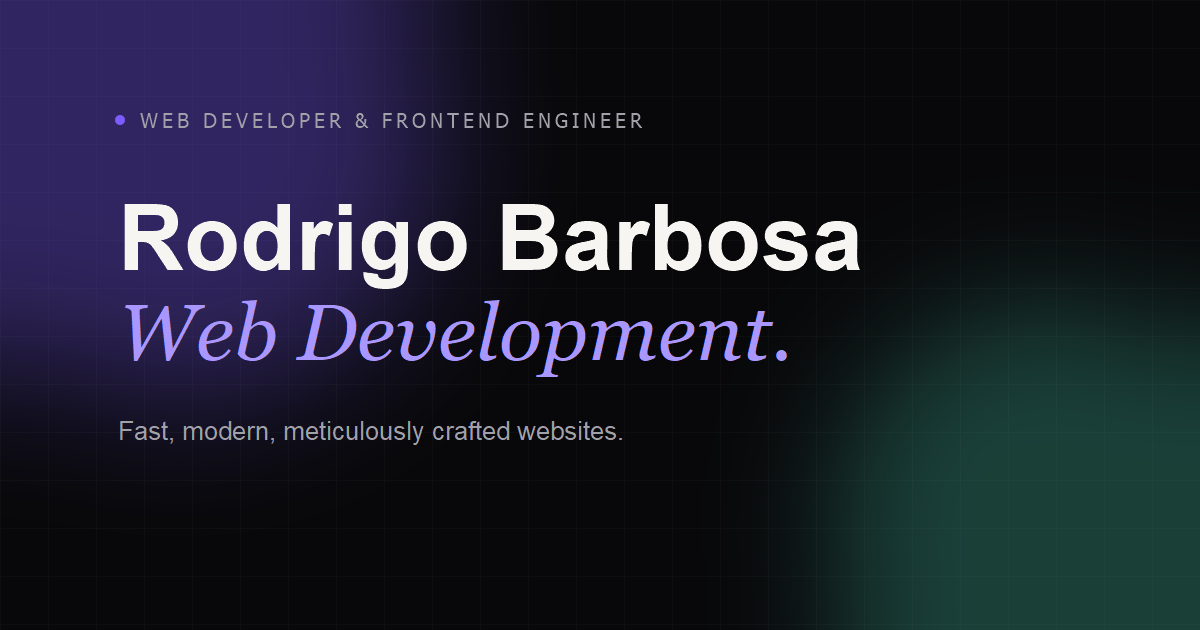
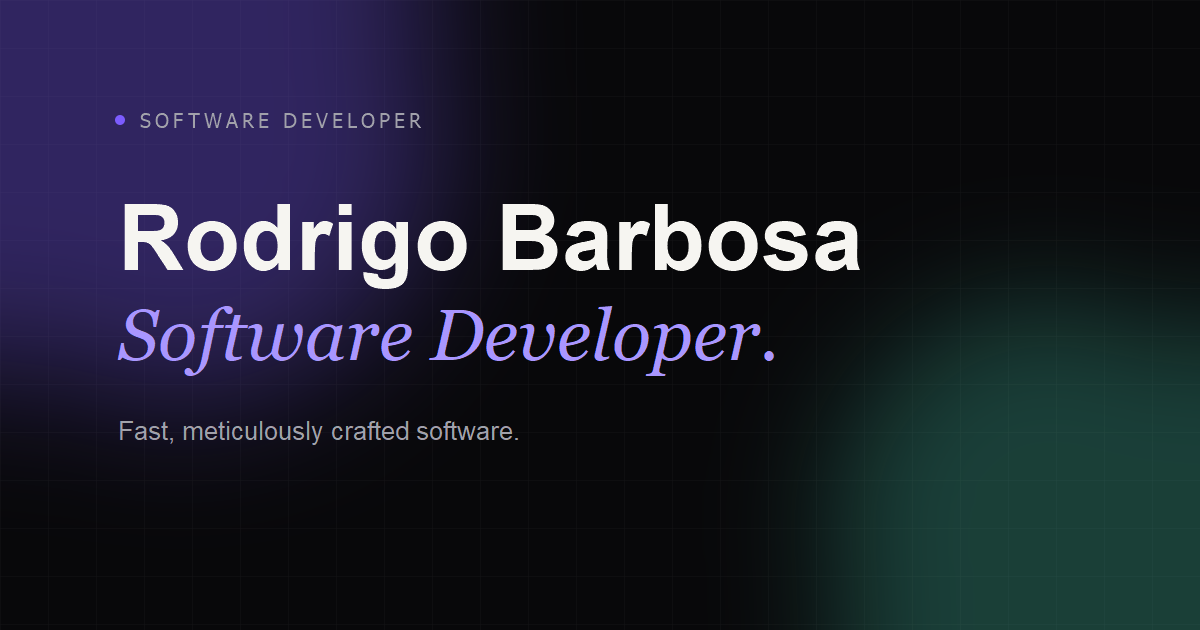
Reposition as Software Developer, add email quick-actions
The brand identity was too narrowly framed as "Web Development" —
updated the core positioning site-wide (Hero, meta title/description,
JSON-LD, About, OG image) to "Software Developer", since the
portfolio isn't meant to be limited to web work and the two web
projects shown are only part of what's being built.

- Hero, site title, and metadata now lead with "Software Developer";
  supporting copy frames web work as the current visible output, not
  the ceiling.
- About page now states plainly that Rodrigo is a software developer
  studying Computer Engineering.
- Added an EmailButton (mirrors WhatsAppButton) in the navbar next to
  the WhatsApp button, and in the Hero CTA row, so email has the same
  one-click prominence WhatsApp already had.
- Softened "website"-exclusive phrasing in Contact/Journal copy to
  "project"/"software" where it was making an identity claim rather
  than describing the actual case studies.

Changed region(s): [[0.0925, 0.4825, 0.6783, 0.6032], [0.1542, 0.6635, 0.5242, 0.7238], [0.1233, 0.181, 0.555, 0.2111]]

diff --git a/src/components/sections/Hero.tsx b/src/components/sections/Hero.tsx
@@ -7,6 +7,7 @@ import gsap from "gsap";
 import { RevealText } from "@/components/ui/RevealText";
 import { MagneticButton } from "@/components/ui/MagneticButton";
 import { WhatsAppButton } from "@/components/ui/WhatsAppButton";
+import { EmailButton } from "@/components/ui/EmailButton";
 import { GridNoiseBackground } from "@/components/ui/GridNoiseBackground";
 import { GlowOrb } from "@/components/ui/GlowOrb";
 
@@ -60,13 +61,13 @@ export function Hero() {
             className="mb-6 flex items-center gap-3 font-mono text-xs uppercase tracking-[0.2em] text-fg-subtle"
           >
             <span className="h-1.5 w-1.5 rounded-full bg-accent" />
-            Web Developer &amp; Frontend Engineer
+            Software Developer
           </motion.div>
 
           <h1 className="text-[13vw] font-medium leading-[0.98] tracking-tight sm:text-6xl md:text-7xl lg:text-[5.2rem]">
             <RevealText text="Rodrigo Barbosa" as="span" className="block text-fg" delay={0.25} />
             <RevealText
-              text="Web Development."
+              text="Software Developer."
               as="span"
               className="font-display block italic text-accent-soft"
               delay={0.55}
@@ -78,8 +79,7 @@ export function Hero() {
             transition={{ duration: 0.7, ease: [0.16, 1, 0.3, 1], delay: 1.1 }}
             className="mt-7 max-w-xl text-lg text-fg md:text-xl"
           >
-            I design and build fast, meticulously crafted websites that make brands look bigger —
-            and turn visitors into clients.
+            I build software with the same care most people only spend on the parts you can see.
           </motion.p>
 
           <motion.p
@@ -87,9 +87,8 @@ export function Hero() {
             transition={{ duration: 0.7, ease: [0.16, 1, 0.3, 1], delay: 1.25 }}
             className="mt-4 max-w-lg text-balance text-fg-muted"
           >
-            I help businesses, local brands, and personal brands stand out with modern,
-            high-performance websites, built with the same attention to detail you can see right
-            here.
+            Right now that shows up as fast, considered websites — but the same standard carries
+            into everything else I build, developer tools included.
           </motion.p>
 
           <motion.div
@@ -101,6 +100,7 @@ export function Hero() {
               View Work
             </MagneticButton>
             <WhatsAppButton label="Chat on WhatsApp" variant="secondary" />
+            <EmailButton label="Send Email" variant="secondary" />
           </motion.div>
         </div>
 
@@ -128,7 +128,7 @@ export function Hero() {
               <div className="absolute inset-6 rounded-[2.5rem] border border-border-strong/60 backdrop-blur-[1px]" />
               <Image
                 src="/images/rodrigo-barbosa.png"
-                alt="Portrait of Rodrigo Barbosa, Web Developer and Frontend Engineer"
+                alt="Portrait of Rodrigo Barbosa, Software Developer"
                 fill
                 priority
                 sizes="(max-width: 1024px) 60vw, 32vw"

diff --git a/src/app/about/page.tsx b/src/app/about/page.tsx
@@ -10,7 +10,7 @@ import { siteConfig } from "@/lib/site-config";
 export const metadata: Metadata = {
   title: "About",
   description:
-    "Frontend engineer focused on React, Next.js, and TypeScript — how I think, what I value, and why two projects are only the floor.",
+    "Software developer studying Computer Engineering — how I think, what I value, and why two web projects are only the floor.",
   alternates: {
     canonical: `${siteConfig.url}/about`,
   },
@@ -64,6 +64,10 @@ export default function AboutPage() {
               client it&apos;s for — not assembled from a template. What you&apos;ve seen so far
               is a floor, not a ceiling.
             </p>
+            <p className="mt-4 max-w-2xl text-lg text-fg-muted md:text-xl">
+              I&apos;m a software developer, currently studying Computer Engineering. Web is where
+              most of my published work lives right now — it&apos;s not the limit of what I build.
+            </p>
           </div>
         </section>
 
@@ -115,10 +119,10 @@ export default function AboutPage() {
         <section className="relative overflow-hidden border-t border-border py-24 md:py-32">
           <div className="container-premium flex flex-col items-center text-center">
             <h2 className="max-w-xl text-3xl font-medium leading-tight text-fg md:text-4xl">
-              If any of this sounds like the way you&apos;d want your site built —
+              If any of this sounds like the way you&apos;d want something built —
             </h2>
             <div className="mt-8">
-              <WhatsAppButton label="Let's Talk" message="Hi Rodrigo, I read your About page and I'd like to talk about a website project." />
+              <WhatsAppButton label="Let's Talk" message="Hi Rodrigo, I read your About page and I'd like to talk about a project." />
             </div>
           </div>
         </section>

diff --git a/src/lib/site-config.ts b/src/lib/site-config.ts
@@ -1,12 +1,12 @@
 const whatsappNumber = "351914220304";
 const whatsappDefaultMessage =
-  "Hi Rodrigo, I found your portfolio and I'd like to talk about a website project.";
+  "Hi Rodrigo, I found your portfolio and I'd like to talk about a project.";
 
 export const siteConfig = {
   name: "Rodrigo Barbosa",
-  title: "Rodrigo Barbosa — Web Development",
+  title: "Rodrigo Barbosa — Software Developer",
   description:
-    "Rodrigo Barbosa is a Web Developer & Frontend Engineer building fast, modern, meticulously crafted websites for brands that refuse to look ordinary.",
+    "Rodrigo Barbosa is a Software Developer building fast, meticulously crafted software — from websites to the developer tools behind them.",
   url: process.env.NEXT_PUBLIC_SITE_URL ?? "https://0xbarbosa.dev",
   ogImage: "/og-image.png",
   email: "rb6544758@gmail.com",
@@ -19,6 +19,6 @@ export const siteConfig = {
     href: (message: string = whatsappDefaultMessage) =>
       `https://wa.me/${whatsappNumber}?text=${encodeURIComponent(message)}`,
   },
-  emailHref: (subject = "Website project inquiry") =>
+  emailHref: (subject = "Project inquiry") =>
     `mailto:rb6544758@gmail.com?subject=${encodeURIComponent(subject)}`,
 } as const;

diff --git a/src/app/contact/page.tsx b/src/app/contact/page.tsx
@@ -12,7 +12,7 @@ import { siteConfig } from "@/lib/site-config";
 export const metadata: Metadata = {
   title: "Contact",
   description:
-    "Get in touch to talk about a website project — WhatsApp, email, or whatever's easiest for you.",
+    "Get in touch to talk about a project — WhatsApp, email, or whatever's easiest for you.",
   alternates: {
     canonical: `${siteConfig.url}/contact`,
   },
@@ -61,8 +61,8 @@ export default function ContactPage() {
             </h1>
 
             <p className="mt-7 max-w-lg text-balance text-lg text-fg-muted">
-              If you&apos;re looking for a modern, fast website built with real attention to
-              detail, let&apos;s talk. I&apos;d be glad to discuss your project.
+              If you&apos;re looking for something built with real attention to detail,
+              let&apos;s talk. I&apos;d be glad to discuss your project.
             </p>
 
             <div className="mt-10 flex flex-wrap items-center justify-center gap-4">

diff --git a/src/lib/projects-data.ts b/src/lib/projects-data.ts
@@ -160,8 +160,7 @@ export const projects: Project[] = [
     tagline: "A 49-component design system built to feel handcrafted, not generated.",
     summary:
       "A framework-agnostic UI kit shipped as native Web Components — one precision-instrument-inspired design language, a live tweakcn-style theme editor, and full documentation, usable from React, Vue, Svelte, PHP, Java, and Rust without a rewrite.",
-    liveUrl: "https://github.com/barbosaz1/xubz-ui",
-    liveUrlLabel: "View on GitHub",
+    liveUrl: "https://xubz-ui.vercel.app/",
     coverImage: "/images/projects/xubz-ui/cover.png",
     coverAlt:
       "The Xubz UI theme editor showing a full color and shape customization panel beside a live grid of components — accordions, tabs, cards, and menus — updating in real time.",

diff --git a/src/app/layout.tsx b/src/app/layout.tsx
@@ -27,11 +27,11 @@ export const metadata: Metadata = {
   },
   keywords: [
     "Rodrigo Barbosa",
-    "Web Developer",
+    "Software Developer",
+    "Software Engineer",
     "Frontend Engineer",
     "Next.js Developer",
     "React Developer",
-    "Website Design",
     "Web Development",
   ],
   authors: [{ name: siteConfig.name, url: siteConfig.url }],
@@ -81,10 +81,11 @@ export default function RootLayout({
     "@type": "Person",
     name: siteConfig.name,
     url: siteConfig.url,
-    jobTitle: "Web Developer & Frontend Engineer",
+    jobTitle: "Software Developer",
     email: siteConfig.email,
     sameAs: [siteConfig.social.github],
     knowsAbout: [
+      "Software Development",
       "Web Development",
       "Frontend Engineering",
       "Next.js",

diff --git a/src/components/layout/Header.tsx b/src/components/layout/Header.tsx
@@ -5,6 +5,7 @@ import { useEffect, useState } from "react";
 import { motion, useMotionValueEvent, useScroll } from "framer-motion";
 import { cn } from "@/lib/utils";
 import { WhatsAppButton } from "@/components/ui/WhatsAppButton";
+import { EmailButton } from "@/components/ui/EmailButton";
 import { MenuOverlay } from "./MenuOverlay";
 
 export function Header() {
@@ -48,6 +49,11 @@ export function Header() {
           </Link>
 
           <div className="flex items-center gap-3">
+            <EmailButton
+              label="Email"
+              variant="secondary"
+              className="hidden !px-5 !py-2.5 text-xs sm:inline-flex"
+            />
             <WhatsAppButton
               label="WhatsApp"
               variant="secondary"

diff --git a/src/components/ui/EmailButton.tsx b/src/components/ui/EmailButton.tsx
@@ -1,0 +1,25 @@
+import { Mail } from "lucide-react";
+import { siteConfig } from "@/lib/site-config";
+import { MagneticButton } from "./MagneticButton";
+import { cn } from "@/lib/utils";
+
+type EmailButtonProps = {
+  label?: string;
+  subject?: string;
+  variant?: "primary" | "secondary";
+  className?: string;
+};
+
+export function EmailButton({
+  label = "Email",
+  subject,
+  variant = "secondary",
+  className,
+}: EmailButtonProps) {
+  return (
+    <MagneticButton href={siteConfig.emailHref(subject)} variant={variant} className={cn(className)}>
+      <Mail className="h-4 w-4" aria-hidden />
+      {label}
+    </MagneticButton>
+  );
+}

diff --git a/src/components/sections/ClosingCTA.tsx b/src/components/sections/ClosingCTA.tsx
@@ -30,8 +30,8 @@ export function ClosingCTA() {
           transition={{ duration: 0.6, delay: 0.5, ease: [0.16, 1, 0.3, 1] }}
           className="mt-6 max-w-md text-lg text-fg-muted"
         >
-          If you&apos;re looking for a modern, fast website with real attention to
-          detail, let&apos;s talk.
+          If you&apos;re looking for something built with real attention to detail,
+          let&apos;s talk.
         </motion.p>
 
         <motion.div

diff --git a/src/app/journal/page.tsx b/src/app/journal/page.tsx
@@ -9,7 +9,7 @@ import { siteConfig } from "@/lib/site-config";
 export const metadata: Metadata = {
   title: "Journal",
   description:
-    "Writing on frontend engineering, design systems, and the craft decisions behind well-built websites.",
+    "Writing on software development, frontend engineering, and the craft decisions behind building things well.",
   alternates: {
     canonical: `${siteConfig.url}/journal`,
   },
